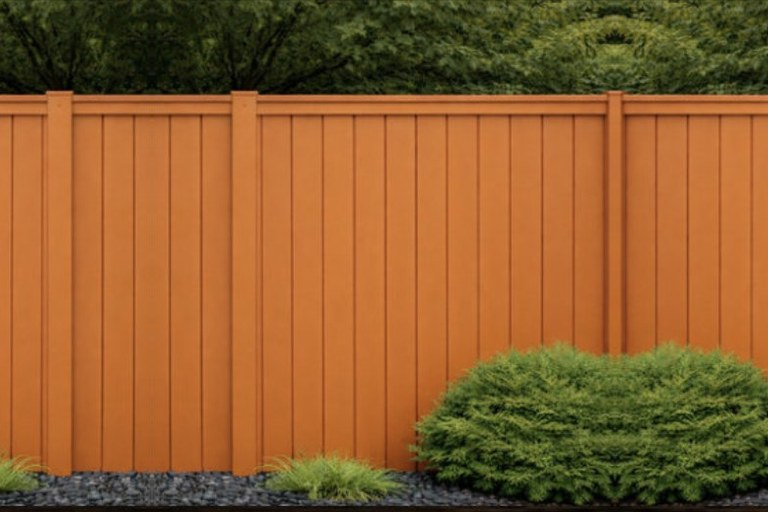
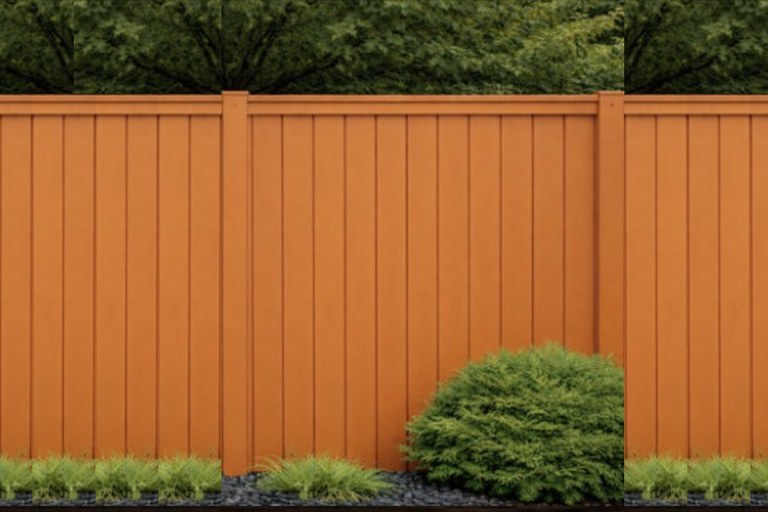
Alan: Legacy photos redone: the orange extended with its own panels at the real post spacing, the dark one's boards carried along its rail
- Orange: the mirrored copy had put a post too close to the real one. The
  picture is now widened with two of its own boards repeated, so the panel
  continues and the next posts fall off the edge.
- Dark brown: the stretched edges looked fake. Its own boards are copied
  outward along the slope of the top rail, so the rail stays straight and
  the boards keep their width.
- The photo URLs carry ?v=3 so phones holding an earlier cut load these.

Changed region(s): [[0.0, 0.0, 1.0, 1.0]]

diff --git a/frontend/src/pages/ProposalMockup.tsx b/frontend/src/pages/ProposalMockup.tsx
@@ -89,9 +89,11 @@ const PACKAGES: {
   },
   {
     key: "legacy", name: "Legacy Finish", short: "Legacy", tag: "Solid color", lasts: "4–7 yrs",
-    // New file names on purpose: a phone that cached the old, zoomed-in
-    // Legacy photos under the old names keeps showing them otherwise.
-    photos: ["/proposal-mockup/pkg-legacy-wide-a.jpg", "/proposal-mockup/pkg-legacy-wide-b.jpg"],
+    // The orange is extended with its own panels at the real post spacing
+    // (the next posts fall off the edge); the dark one's boards continue
+    // along the slope of its rail. The ?v= changes whenever the files do,
+    // so a phone that cached an earlier cut loads the new one.
+    photos: ["/proposal-mockup/pkg-legacy-wide-a.jpg?v=3", "/proposal-mockup/pkg-legacy-wide-b.jpg?v=3"],
     best: "Older fences that need full coverage",
     lines: [
       { icon: Shield, text: "Solid color protection" },
